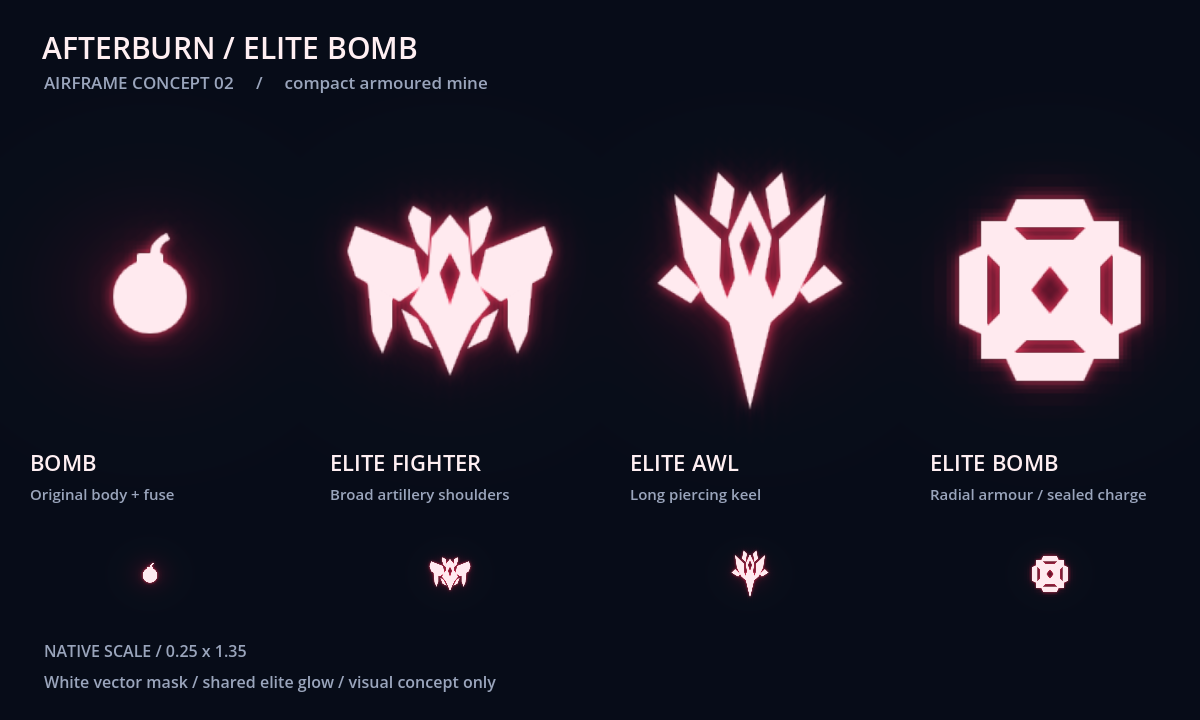
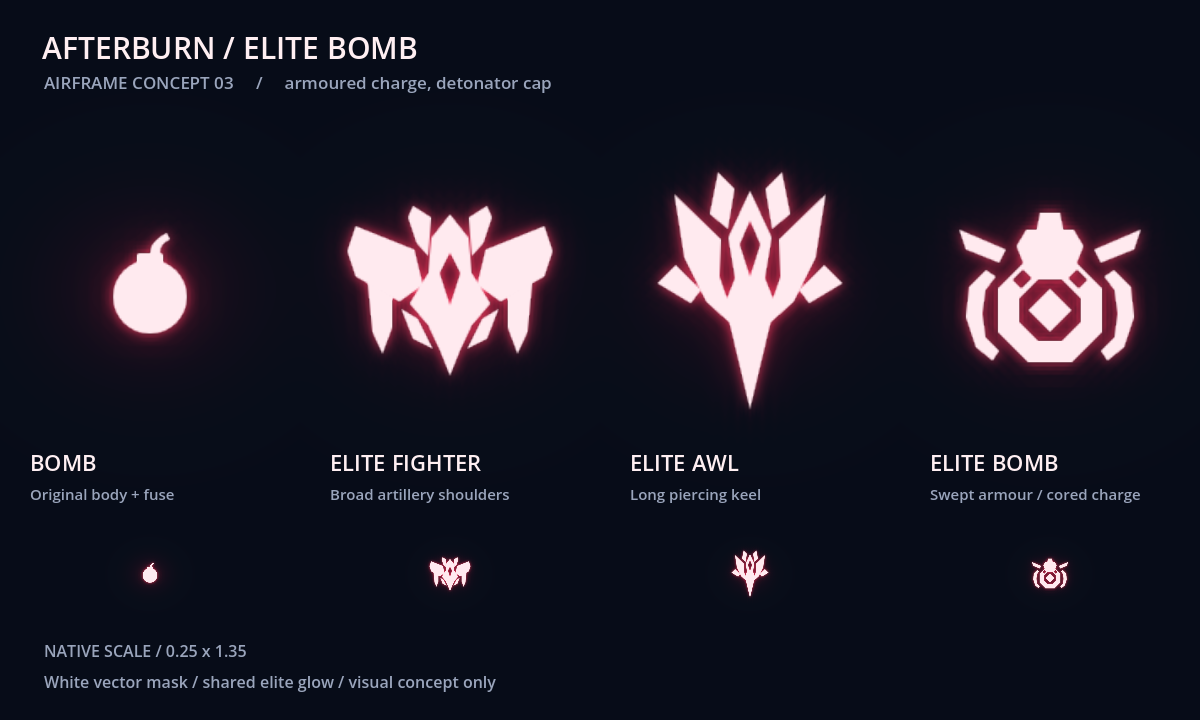
godot: redesign elite bomb silhouette as armoured charge
Replace the sealed mine draft with an angular Bomb-lineage elite: octagon shell, diamond core, detonator cap, swept plates and emitters.

diff --git a/docs/design/elites/elite-bomb.md b/docs/design/elites/elite-bomb.md
@@ -8,9 +8,10 @@
 
 ![Elite Bomb concept](../enemies/sprites/enemy_elite_bomb.svg)
 
-- 일반 Bomb의 덩어리감을 계승한 **중장갑 기뢰**. 상단 신관과 점화 팁을 제거하고, 사방이 대칭인 각진 외피로 압축된 폭발체를 표현한다.
-- 상하좌우 장갑의 안쪽에 짧고 각진 투명 절개를 배치한다. 중앙의 작은 마름모 절개와 넓은 흰색 몸체로 묵직한 덩어리를 유지한다.
-- 외곽은 낮은 턱이 있는 일체형 장갑이다. 위쪽 돌출부나 몸체와 떨어진 부유 부품은 두지 않는다.
+- Awl → [Elite Awl](elite-awl.md)과 같은 규칙으로 만든 **대형 장갑 폭발체**. 일반 Bomb의 둥근 몸체·신관 덮개 실루엣을 각진 형태로 키워 한눈에 같은 계열임을 읽히게 하고, 그 주위에 엘리트 공통 요소(측면 장갑·이미터·내부 절개)를 더한다.
+- 몸체는 반지름 34의 **팔각 외피**로, evenodd 절개로 **각진 코어**(반지름 19 팔각 절개 안에 반지름 13 마름모 코어)를 드러내고, 일반 Bomb의 하이라이트 점 위치에 대응하는 좌우 상단 사선 절개 2개를 둔다.
+- 신관 덮개는 육각 **보강 칼라**와 그 위의 짧은 사다리꼴 **기폭 플러그**로 키운다. 도화선·스파크 같은 불꽃 요소는 두지 않고 기계적인 실루엣으로 마감한다.
+- 좌우에 구체를 감싸는 **스윕 장갑판**과 어깨 높이의 **이미터 날** 한 쌍을 몸체와 약 3px 띄워 배치한다. Elite Awl의 측면 장갑·이미터와 같은 각진 결을 사용한다.
 - 흰색 SVG 마스크에 기존 엘리트의 적색/분홍 글로우·연분홍 흰색 코어를 적용한다.
 - 에셋: `assets/svg/enemy_elite_bomb.svg` (128×128). 표시 배율 0.25 × 1.35에서 약 43×43px이며, 확대와 실제 표시 크기를 비교한다.
 - 외형 시안 단계다. 전용 씬·자폭 동작·보상·Threat 편성은 미정이며 실제 전투에는 연결하지 않는다.
